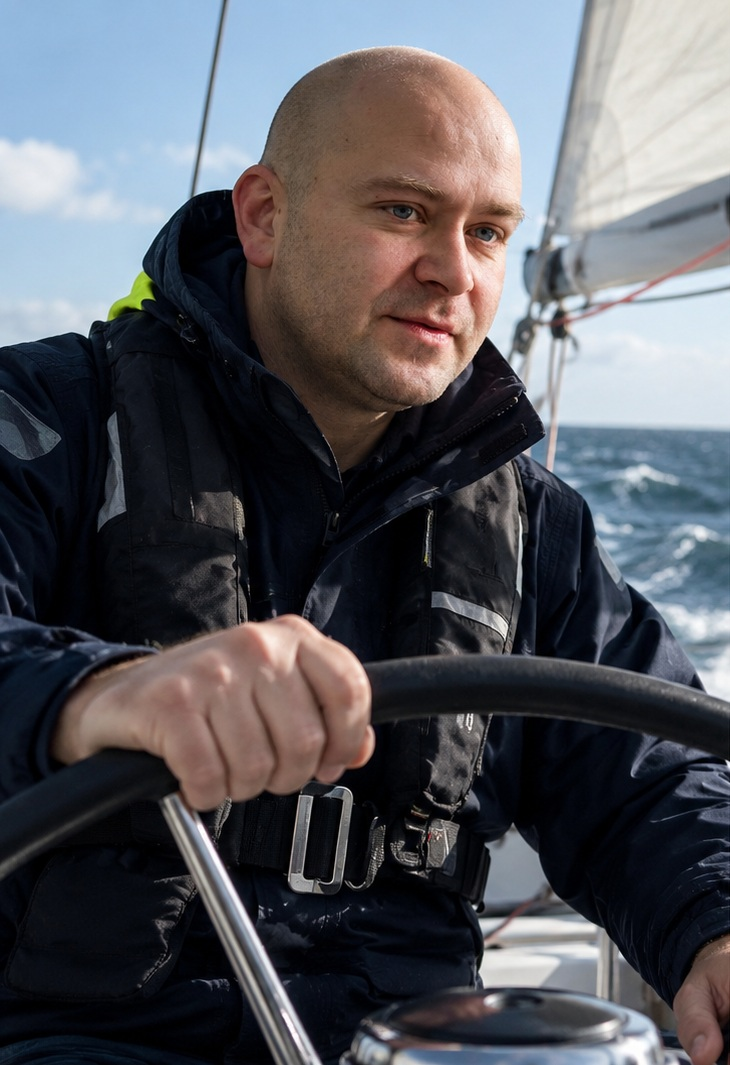
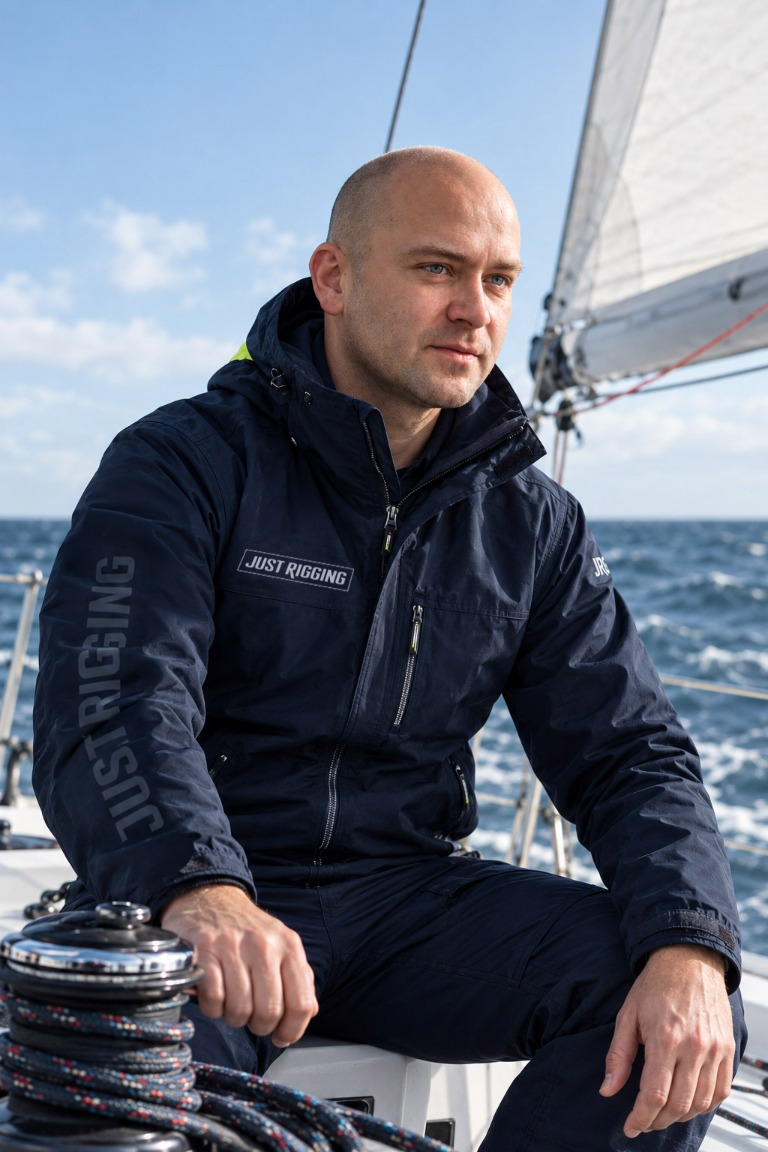
site

diff --git a/styles.css b/styles.css
@@ -201,7 +201,7 @@ h1, h2, h3, .section-title, .project-banner strong { font-family: var(--heading-
 .process-track h3 { margin: .65rem 0 .45rem; font-size: 1.25rem; font-weight: 400; }
 .process-track p { max-width: 14rem; margin: 0; color: var(--muted); font-size: 18px; line-height: 1.6; }
 .team-section { padding-top: 3rem; }
-.team-grid { display: grid; grid-template-columns: repeat(2, minmax(0,1fr)); gap: .9rem; }
+.team-grid { display: grid; grid-template-columns: repeat(2, minmax(0, 28rem)); justify-content: center; gap: .9rem; }
 .team-card { position: relative; min-height: 245px; padding: 1.3rem; display: flex; flex-direction: column; justify-content: end; overflow: hidden; border: 1px solid var(--line); border-radius: .7rem; background: linear-gradient(145deg, #172020, #0d1314); }
 .team-role { position: absolute; top: 1.2rem; left: 1.3rem; color: var(--accent); font-size: .62rem; letter-spacing: .13em; text-transform: uppercase; }
 .team-card h3 { margin: 0; font-size: 1.75rem; font-weight: 400; letter-spacing: .02em; }
@@ -259,6 +259,7 @@ h1, h2, h3, .section-title, .project-banner strong { font-family: var(--heading-
 @media (max-width: 900px) {
   .mission-section { grid-template-columns: 1fr 1fr; gap: 1.5rem; }
   .service-grid { grid-template-columns: repeat(2, minmax(0,1fr)); }
+  .team-grid { grid-template-columns: repeat(2, minmax(0, 1fr)); }
   .service-card:nth-child(n) h3 { font-size: 1.2rem; }
   .service-card { padding: 1.2rem 1.4rem; border-radius: 1.2rem; }
   .service-card:nth-child(n) { border-radius: 1.2rem; }
@@ -389,14 +390,11 @@ h1, h2, h3, .section-title, .project-banner strong { font-family: var(--heading-
 
 
 
-.team-lead { min-height: 420px; isolation: isolate; }
-.team-lead img { position: absolute; inset: 0; z-index: -2; width: 100%; height: 100%; object-fit: cover; object-position: center 25%; filter: saturate(.85); transition: transform .6s; }
+.team-lead { min-height: 0; aspect-ratio: 2 / 3; isolation: isolate; }
+.team-lead img { position: absolute; inset: 0; z-index: -2; width: 100%; height: 100%; object-fit: cover; object-position: center 25%; filter: saturate(.85); transition: filter .6s; }
 .team-lead::after { position: absolute; inset: 0; z-index: -1; content: ""; background: linear-gradient(0deg, rgba(4,8,9,.92), rgba(4,8,9,0) 60%); }
-.team-lead:hover img { transform: scale(1.04); }
+.team-lead:hover img { filter: saturate(1); }
 .team-lead .team-role { text-shadow: 0 1px 4px rgba(0,0,0,.7); }
-@media (max-width: 680px) { .team-lead { min-height: 380px; } }
-
-
 .js-enabled .team-lead h3 { opacity: 0; transform: translateX(3rem); transition: opacity .8s ease, transform .8s cubic-bezier(.2,.7,.2,1); }
 .js-enabled .team-lead.names-in h3 { opacity: 1; transform: none; }
 @media (prefers-reduced-motion: reduce) { .js-enabled .team-lead h3 { opacity: 1; transform: none; transition: none; } }

diff --git a/index.html b/index.html
@@ -7,7 +7,7 @@
   <meta name="description" content="Just Rigging — omasztowanie, takielunek, osprzęt jachtowy i zarządzanie projektami żaglowymi." />
   <title>Just Rigging — Performance Marine Systems</title>
   <link rel="preload" as="image" href="media/sailing-01.jpg" />
-  <link rel="stylesheet" href="styles.css?v=17" />
+  <link rel="stylesheet" href="styles.css?v=19" />
 </head>
 <body id="top">
   <div class="scroll-progress" aria-hidden="true"><span></span></div>
@@ -200,8 +200,8 @@
       <div class="section-topline" data-reveal><p class="eyebrow">04 / Zespół</p></div>
       <div class="team-intro" data-reveal><h2 id="team-title">Ludzie<br /><span>morza.</span></h2></div>
       <div class="team-grid">
-        <article class="team-card team-lead" tabindex="0" data-reveal><img src="media/team/wojtek.jpg" alt="Wojtek przy kole sterowym jachtu" loading="lazy" /><h3>Wojtek Głowacki</h3></article>
-        <article class="team-card team-lead" tabindex="0" data-reveal><img src="media/team/pawel.jpg" alt="Paweł w czerwonej kurtce żeglarskiej przy kole sterowym" loading="lazy" /><h3>Paweł Barwicz</h3></article>
+        <article class="team-card team-lead" tabindex="0" data-reveal><img src="media/team/wojtek.jpg" alt="Wojtek na pokładzie jachtu żaglowego" loading="lazy" /><h3>Wojtek Głowacki</h3></article>
+        <article class="team-card team-lead" tabindex="0" data-reveal><img src="media/team/pawel.jpg" alt="Paweł na pokładzie jachtu żaglowego" loading="lazy" /><h3>Paweł Barwicz</h3></article>
       </div>
     </section>
 

diff --git a/systemy-ciegowe.html b/systemy-ciegowe.html
@@ -3,7 +3,7 @@
 <head>
   <meta charset="utf-8" /><meta name="viewport" content="width=device-width, initial-scale=1" />
   <meta name="theme-color" content="#080c0d" /><meta name="description" content="Architektoniczne systemy cięgnowe, ekspozycyjne, zadaszenia, przesłony słoneczne i systemy bezpieczeństwa." />
-  <title>Architektoniczne systemy cięgnowe — Just Rigging</title><link rel="stylesheet" href="styles.css?v=17" />
+  <title>Architektoniczne systemy cięgnowe — Just Rigging</title><link rel="stylesheet" href="styles.css?v=19" />
 </head>
 <body id="top">
   <div class="scroll-progress" aria-hidden="true"><span></span></div>

diff --git a/zarzadzanie-projektami.html b/zarzadzanie-projektami.html
@@ -3,7 +3,7 @@
 <head>
   <meta charset="utf-8" /><meta name="viewport" content="width=device-width, initial-scale=1" />
   <meta name="theme-color" content="#080c0d" /><meta name="description" content="Nadzór nad budową, modernizacją i remontem jednostek żaglowych, kontrola wykonawcza, logistyka i optymalizacja." />
-  <title>Zarządzanie projektami — Just Rigging</title><link rel="stylesheet" href="styles.css?v=17" />
+  <title>Zarządzanie projektami — Just Rigging</title><link rel="stylesheet" href="styles.css?v=19" />
 </head>
 <body id="top">
   <div class="scroll-progress" aria-hidden="true"><span></span></div>

diff --git a/okucia-i-osprzet.html b/okucia-i-osprzet.html
@@ -3,7 +3,7 @@
 <head>
   <meta charset="utf-8" /><meta name="viewport" content="width=device-width, initial-scale=1" />
   <meta name="theme-color" content="#080c0d" /><meta name="description" content="Okucia i osprzęt jachtowy — certyfikowane komponenty elektryczne i hydrauliczne dla jachtów żaglowych." />
-  <title>Okucia i osprzęt — Just Rigging</title><link rel="stylesheet" href="styles.css?v=17" />
+  <title>Okucia i osprzęt — Just Rigging</title><link rel="stylesheet" href="styles.css?v=19" />
 </head>
 <body id="top">
   <div class="scroll-progress" aria-hidden="true"><span></span></div>

diff --git a/custom-design.html b/custom-design.html
@@ -3,7 +3,7 @@
 <head>
   <meta charset="utf-8" /><meta name="viewport" content="width=device-width, initial-scale=1" />
   <meta name="theme-color" content="#080c0d" /><meta name="description" content="Custom design — dedykowane rozwiązania dla jachtów żaglowych, od projektu po testy i optymalizację." />
-  <title>Custom design — Just Rigging</title><link rel="stylesheet" href="styles.css?v=17" />
+  <title>Custom design — Just Rigging</title><link rel="stylesheet" href="styles.css?v=19" />
 </head>
 <body id="top">
   <div class="scroll-progress" aria-hidden="true"><span></span></div>

diff --git a/maszty-i-takielunek.html b/maszty-i-takielunek.html
@@ -3,7 +3,7 @@
 <head>
   <meta charset="utf-8" /><meta name="viewport" content="width=device-width, initial-scale=1" />
   <meta name="theme-color" content="#080c0d" /><meta name="description" content="Omasztowanie, bomy i takielunek aluminiowy, węglowy oraz drewniany dla jachtów żaglowych." />
-  <title>Maszty i takielunek — Just Rigging</title><link rel="stylesheet" href="styles.css?v=17" />
+  <title>Maszty i takielunek — Just Rigging</title><link rel="stylesheet" href="styles.css?v=19" />
 </head>
 <body id="top">
   <div class="scroll-progress" aria-hidden="true"><span></span></div>
